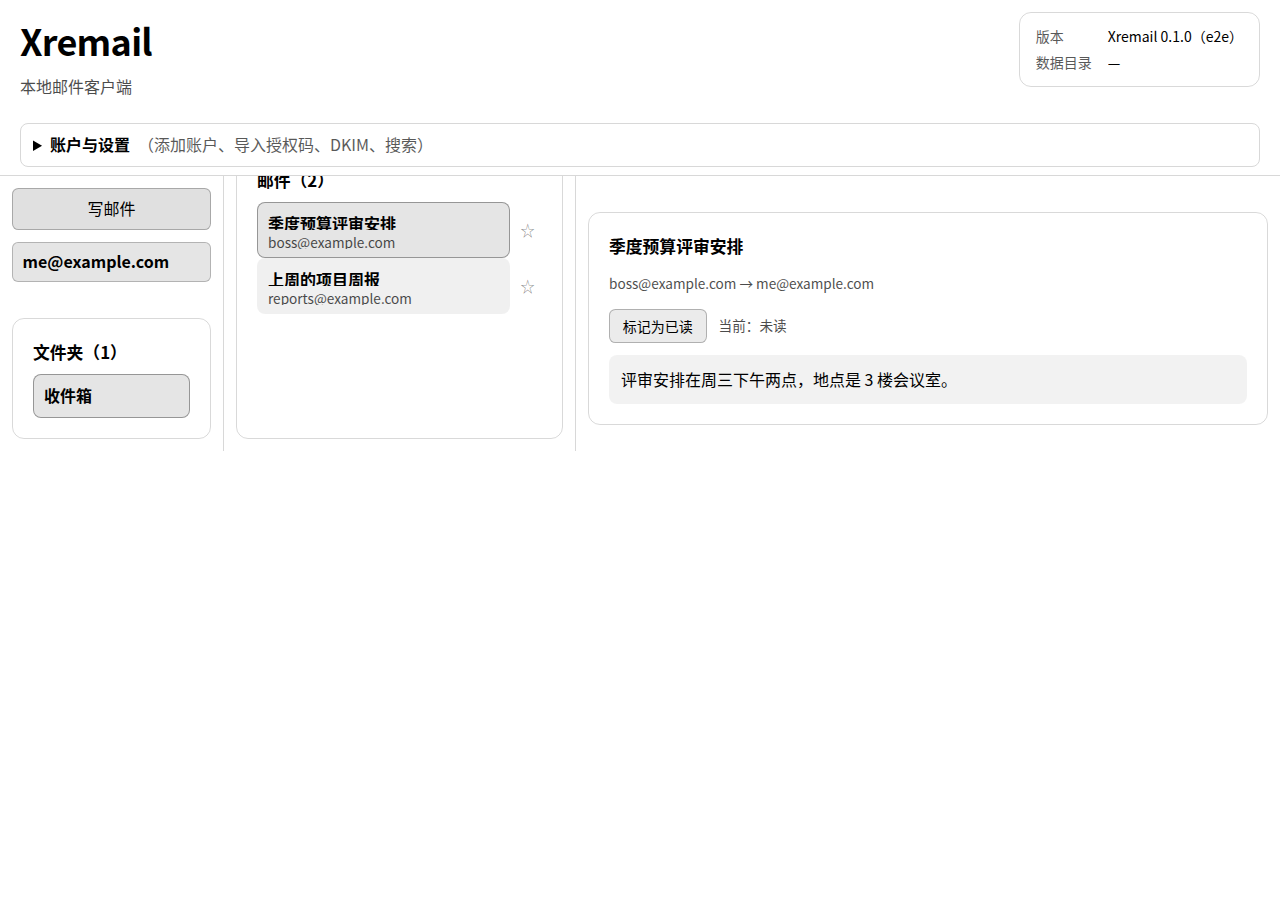
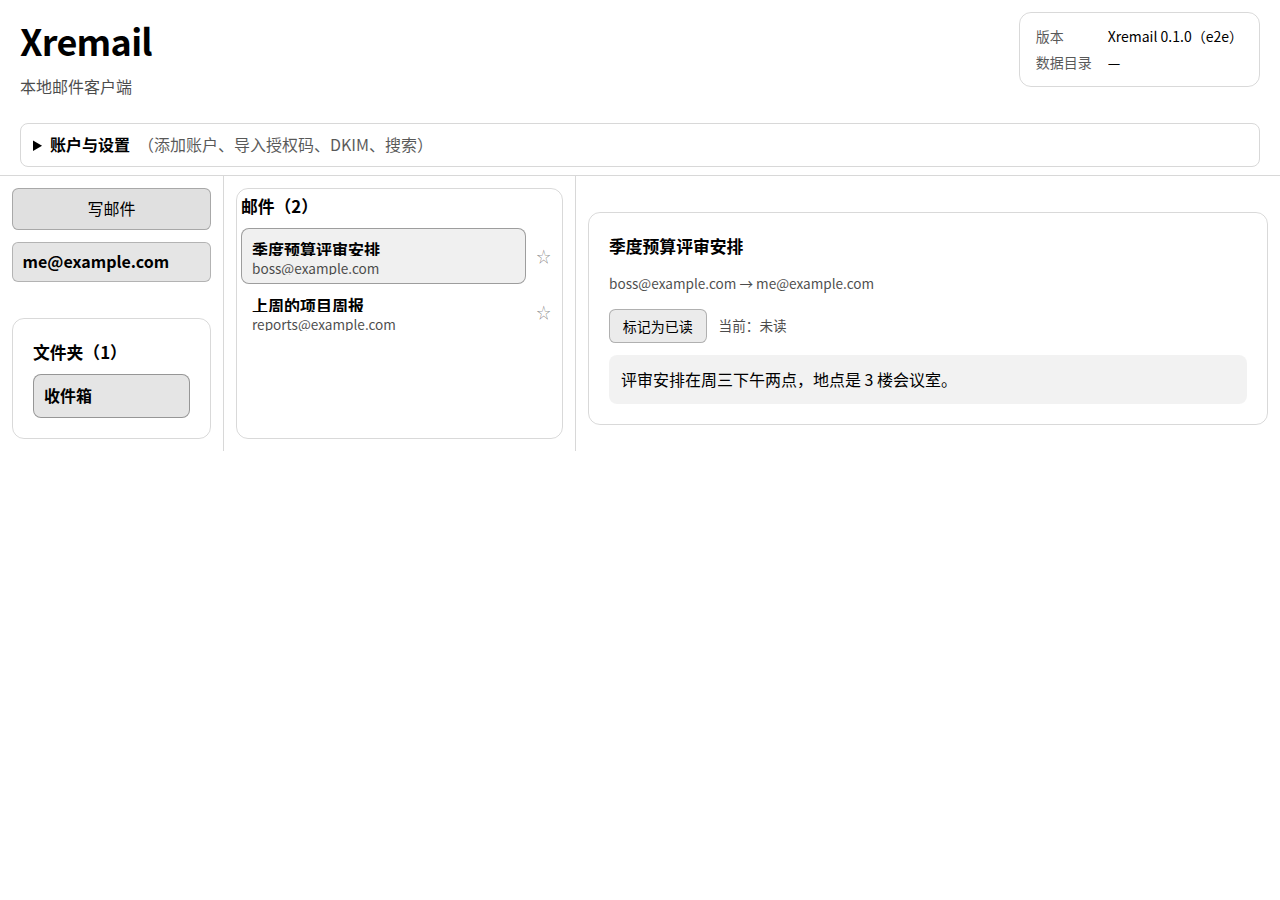
style(ui): 中栏面板补内边距，标题不再顶到边框
虚拟列表撑满高度后，「邮件（n）」标题顶到了面板上边框上（截图里发现的）。
给 .message-panel 补 0.25rem 内边距，三栏顶部现在齐平。

Changed region(s): [[0.1875, 0.1867, 0.4062, 0.3733]]

diff --git a/apps/shell/src/App.css b/apps/shell/src/App.css
@@ -1211,6 +1211,10 @@ body {
   /* 让列表吃掉剩余高度，滚动条落在面板内部而不是整个中栏。 */
   min-height: 0;
   height: 100%;
+  /* 中栏本身有 padding，但面板撑满后标题会顶到边框上——补一点内边距，
+     让「邮件（n）」与上边框之间透口气（截图里发现）。 */
+  padding: 0.25rem;
+  box-sizing: border-box;
 }
 
 .message-list {
